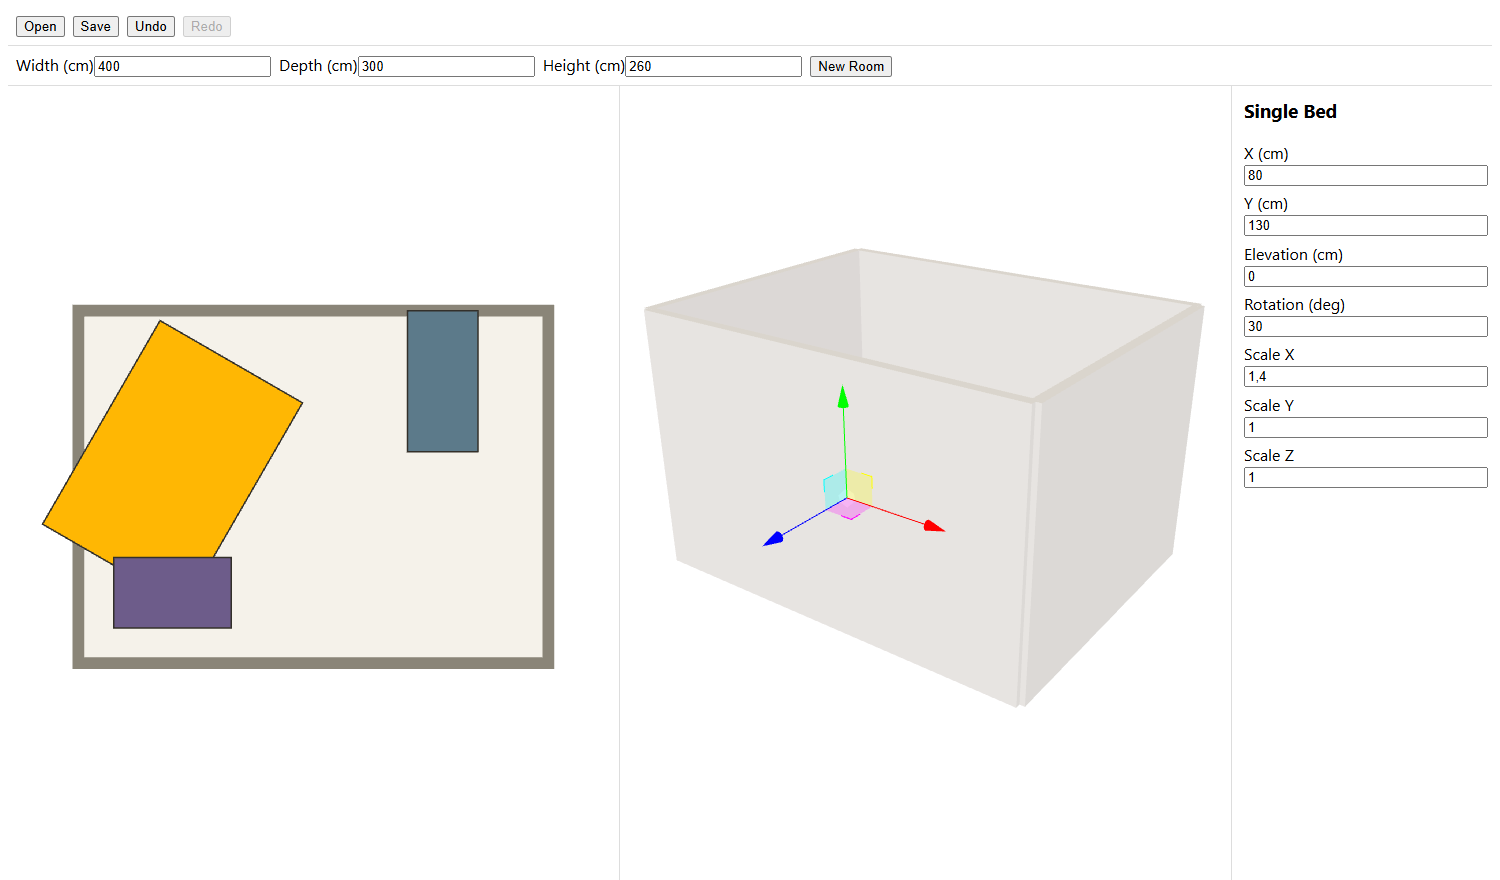
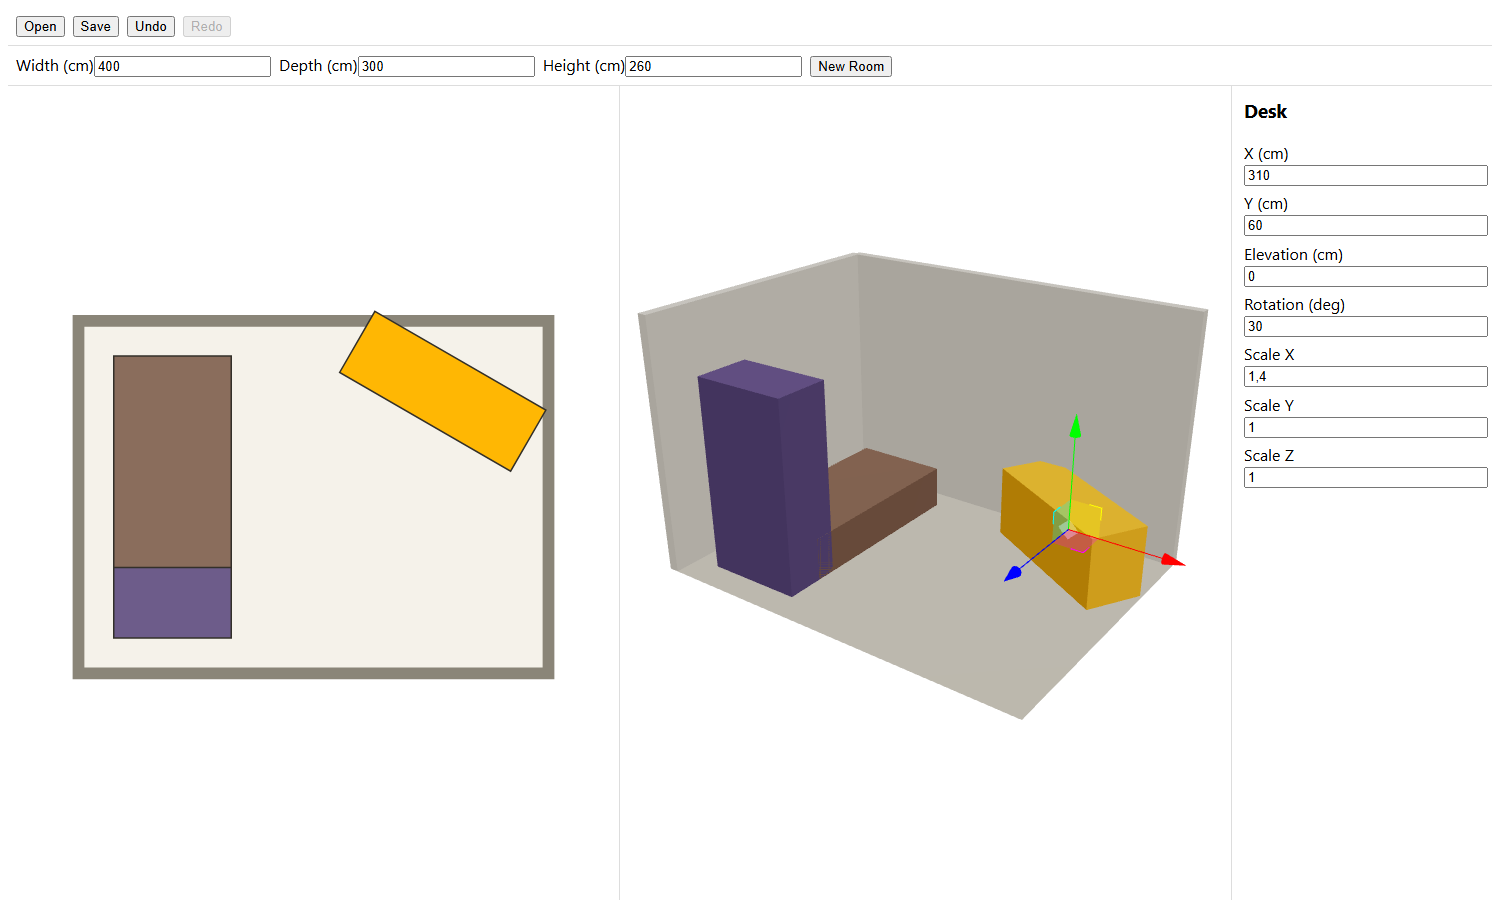
Make the 3D view show the room's contents
Two fixes so the 3D panel isn't an empty box:
- Walls facing the camera from outside are now hidden each frame, so the room
  reads as a cutaway. Full-height opaque walls were occluding every piece of
  furniture from the default camera angle.
- Dropped drei's <Environment preset>, which fetched an HDR from a CDN and threw
  when the app ran offline; local hemisphere + directional lights replace it.

Re-shot both screenshots.

diff --git a/src/render3d/Walls.tsx b/src/render3d/Walls.tsx
@@ -1,16 +1,48 @@
-import { useMemo } from "react";
+import { useMemo, useRef } from "react";
+import { useFrame } from "@react-three/fiber";
 import * as THREE from "three";
 import type { RoomGeometry } from "../doc/types";
 import { docToThree, docRotationYToThree } from "../geometry/coords";
-import { wallSegments } from "../geometry/room";
+import { wallSegments, roomCenter } from "../geometry/room";
 
 export default function Walls({ room }: { room: RoomGeometry }) {
   const { polygon, wallHeight, wallThickness } = room;
   const segments = useMemo(() => wallSegments(polygon), [polygon]);
 
+  const wallRefs = useRef<(THREE.Mesh | null)[]>([]);
+  const centerXZ = useMemo(() => {
+    const c = docToThree(roomCenter(polygon).x, roomCenter(polygon).y, 0);
+    return new THREE.Vector2(c.x, c.z);
+  }, [polygon]);
+  const mids = useMemo(
+    () =>
+      segments.map((seg) => {
+        const p = docToThree((seg.start.x + seg.end.x) / 2, (seg.start.y + seg.end.y) / 2, 0);
+        return new THREE.Vector2(p.x, p.z);
+      }),
+    [segments],
+  );
+
+  // Hide whichever walls the camera would be looking through from outside, so
+  // the room reads as a cutaway instead of a closed box you cannot see into.
+  // Standard room-planner behaviour; runs each rendered frame so it tracks orbit.
+  const camXZ = useMemo(() => new THREE.Vector2(), []);
+  const outward = useMemo(() => new THREE.Vector2(), []);
+  const camToWall = useMemo(() => new THREE.Vector2(), []);
+  useFrame(({ camera }) => {
+    camXZ.set(camera.position.x, camera.position.z);
+    for (let i = 0; i < mids.length; i++) {
+      const mesh = wallRefs.current[i];
+      if (!mesh) continue;
+      outward.subVectors(mids[i], centerXZ); // room centre -> out through this wall
+      camToWall.subVectors(camXZ, mids[i]);
+      mesh.visible = camToWall.dot(outward) <= 0; // camera on the room-side of the wall
+    }
+  });
+
   return (
     <group>
-      {segments.map((seg) => {
+      {segments.map((seg, i) => {
         const dx = seg.end.x - seg.start.x;
         const dy = seg.end.y - seg.start.y;
         const length = Math.hypot(dx, dy);
@@ -21,6 +53,9 @@ export default function Walls({ room }: { room: RoomGeometry }) {
         return (
           <mesh
             key={seg.edgeIndex}
+            ref={(m) => {
+              wallRefs.current[i] = m;
+            }}
             position={[pos.x, pos.y, pos.z]}
             rotation={[0, docRotationYToThree(angle), 0]}
             receiveShadow

diff --git a/src/render3d/Scene3D.tsx b/src/render3d/Scene3D.tsx
@@ -1,6 +1,6 @@
 import { useMemo, useRef } from "react";
 import { Canvas } from "@react-three/fiber";
-import { Environment, OrbitControls } from "@react-three/drei";
+import { OrbitControls } from "@react-three/drei";
 import { useDocumentStore } from "../store/documentStore";
 import { docToThree } from "../geometry/coords";
 import { roomCenter } from "../geometry/room";
@@ -28,9 +28,13 @@ export default function Scene3D() {
       camera={{ position: [target[0] + 500, 500, target[2] + 700], fov: 45, near: 1, far: 8000 }}
       onPointerMissed={() => select(null)}
     >
-      <ambientLight intensity={0.5} />
-      <directionalLight position={[400, 600, 300]} intensity={0.9} castShadow />
-      <Environment preset="apartment" />
+      {/* All lighting is local. drei's <Environment preset> pulls an HDR from a
+          CDN, which broke the 3D view whenever the app ran offline (see
+          README "runs offline"); a hemisphere fill covers what it gave us. */}
+      <ambientLight intensity={0.6} />
+      <hemisphereLight args={["#ffffff", "#8d7f73", 0.7]} />
+      <directionalLight position={[400, 600, 300]} intensity={1.1} castShadow />
+      <directionalLight position={[-300, 200, -200]} intensity={0.3} />
       <Walls room={doc.room} />
       {doc.placements.map((p) => (
         <SelectableFurniture key={p.id} placement={p} orbitRef={orbitRef} />

diff --git a/README.md b/README.md
@@ -12,9 +12,9 @@ A desktop app for laying out rooms in 3D — place furniture from a catalog, pla
 
 ## Showcase
 
-![Room Planner 3D running: the 2D floor plan on the left with a desk, wardrobe and bed, the three.js room in the middle, the inspector editing the selected bed](./docs/screenshots/overview.png)
+![A fresh room: the 2D floor plan on the left with a bed, desk and wardrobe, the same three pieces in the three.js view in the middle, the inspector on the right waiting for a selection](./docs/screenshots/overview.png)
 
-![The same room after rotating and widening the desk from the inspector — the change shows straight away in the 2D plan](./docs/screenshots/editing.png)
+![The desk selected and then rotated and widened from the inspector — the 2D plan and the 3D view both update, and the transform gizmo sits on the desk in 3D](./docs/screenshots/editing.png)
 
 Both captured from `npm run dev` in a browser rather than the native Tauri window — the
 React and three.js UI is the same either way. "New Room" drops in a starter bed, desk and
